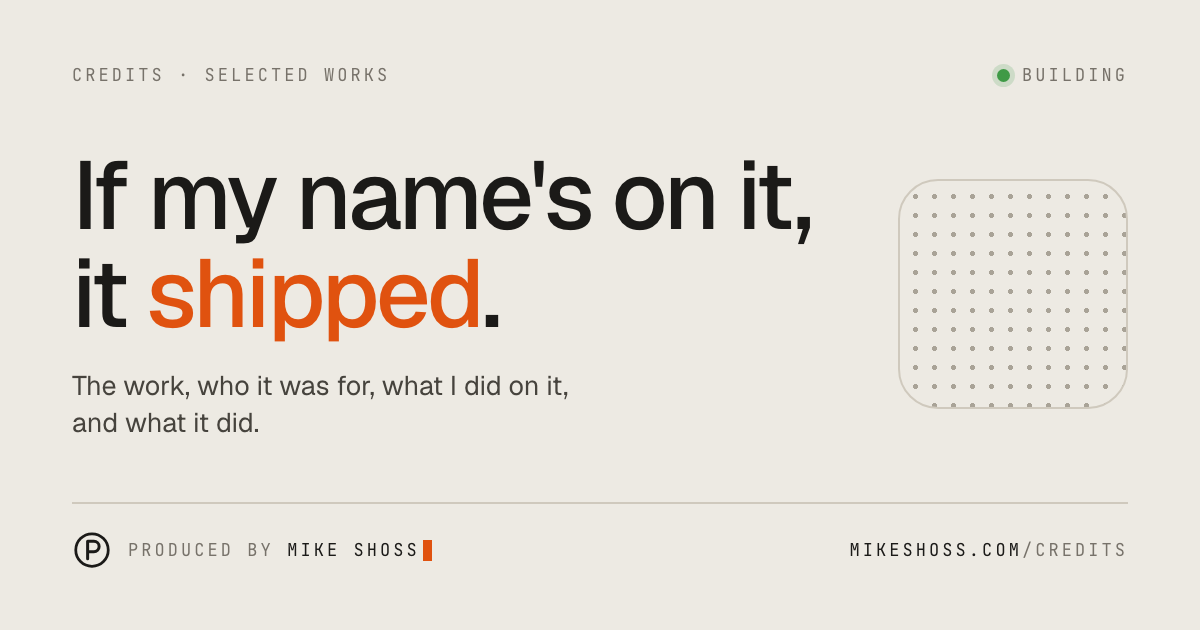
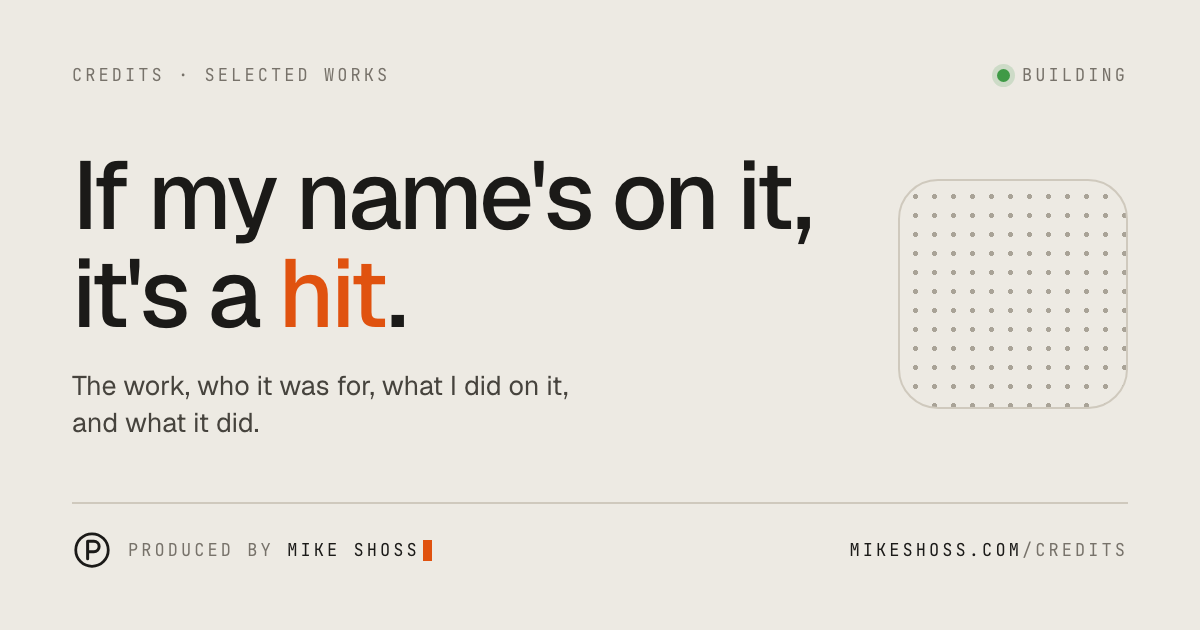
The line: If my name's on it, it's a hit.
Shipping is the floor. Home credits heading, site description, Credits
share card and the brand page.

Claude-Session: https://claude.ai/code/session_01PXLdws1ZUYVP4QoPYJzYg7

Changed region(s): [[0.0925, 0.3921, 0.4317, 0.5429]]

diff --git a/src/data/content.ts b/src/data/content.ts
@@ -139,7 +139,7 @@ export const site = {
    * twitter:description and the JSON-LD Person description. Keep it under 160.
    */
   description:
-    `Mike Shoss ships AI products in industries where being wrong is expensive. Founder of Epilogue. ${patentCount} patents in AI. If his name's on it, it shipped.`,
+    `Mike Shoss ships AI products in industries where being wrong is expensive. Founder of Epilogue. ${patentCount} patents in AI. If his name's on it, it's a hit.`,
   url: "https://mikeshoss.com",
   linkedin: "https://www.linkedin.com/in/mikeshoss",
   github: "https://github.com/mikeshoss",

diff --git a/scripts/og-image.html b/scripts/og-image.html
@@ -3,7 +3,7 @@
   Source for every social card: public/og-image.png (the default) and the
   per-page cards in public/og/. One template, driven by the query string:
 
-    ?eyebrow=Credits&title=If my name's on it, it *shipped*.&sub=...&path=/credits
+    ?eyebrow=Credits&title=If my name's on it, it's a *hit*.&sub=...&path=/credits
 
   *word* marks the one word set in signal orange, as on the site.
 
